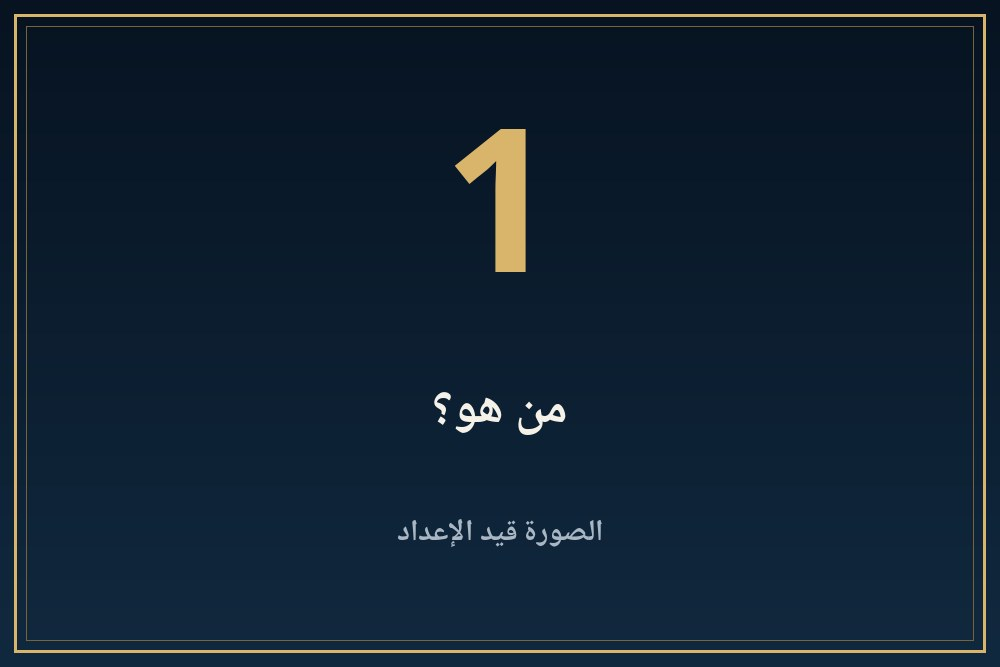
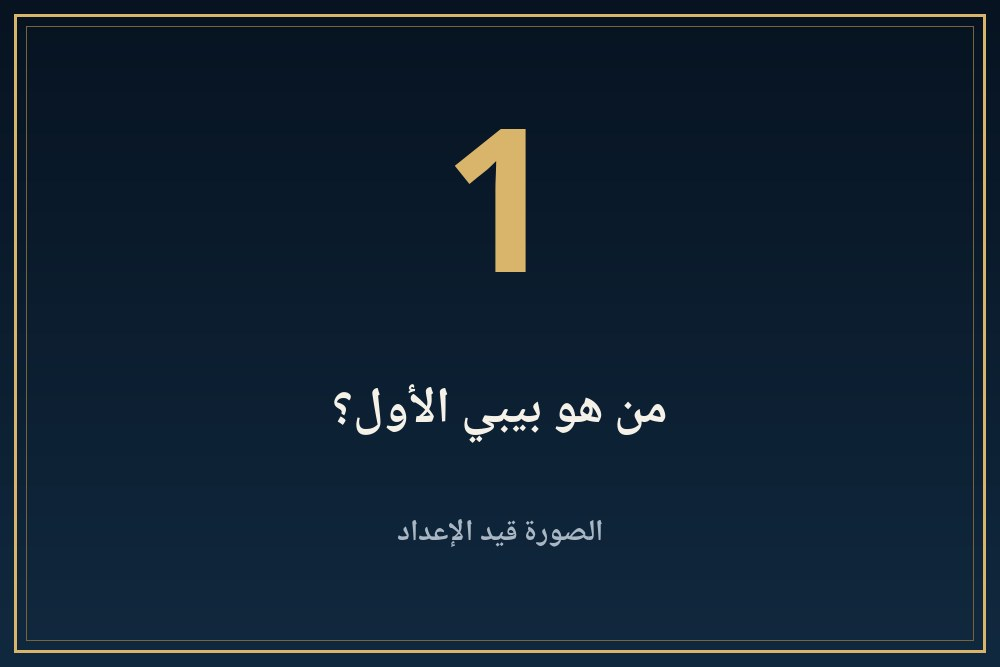
King 033: rebuilt from updated content (placeholders, audio pending)

Changed region(s): [[0.341, 0.5697, 0.682, 0.6597]]

diff --git a/kings/033-byby-alawl/index.html b/kings/033-byby-alawl/index.html
@@ -324,7 +324,7 @@ html[dir=ltr] #panav.open,#pash[dir=ltr] #panav.open{border-right:0!important;bo
 <div class="row"><span class="bdg v">موثّق</span><span>مذكور في مصدر مرقّم يمكن فتحه من قسم المراجع.</span></div>
 <div class="row"><span class="bdg d">محل خلاف</span><span>الصفحة نفسها تذكر أن الباحثين أو المصادر مختلفون فيه.</span></div>
 <div class="row"><span class="bdg u">لم يُتحقق منه</span><span>الصفحة تذكر أنه من مصدر واحد ولم يُتحقق منه في مصدر ثانٍ.</span></div></div>
-<div class="band" aria-hidden="true"></div><details class="acc k1" id="s1"><summary><img class="bnr" src="banners/b01.jpg?v=1" alt="" width="1000" height="667"><span class="n">1</span><span class="t">من هو؟</span><span class="ch"></span></summary><div class="body"><button class="lbtn" type="button" disabled aria-disabled="true" style="opacity:.55;cursor:default"><svg viewBox="0 0 24 24" fill="currentColor" aria-hidden="true"><path d="M7 4.5v15a1 1 0 001.5.86l12-7.5a1 1 0 000-1.72l-12-7.5A1 1 0 007 4.5z"/></svg><span>التعليق الصوتي قريبًا</span></button><p><span class="bdg v">موثّق</span> يقول سليم حسن (ج1 ص275-280) إن بيبي الأول حكم نحو نصف قرن، ووُجدت آثاره من طيبة وتل بسطة والعرابة ودندرة وقفط إلى النوبة السفلى.<sup><a href="#r1">[1]</a></sup></p></div></details><details class="acc k2" id="s2"><summary><img class="bnr" src="banners/b02.jpg?v=1" alt="" loading="lazy" width="1000" height="667"><span class="n">2</span><span class="t">قضية الملكة إمتس</span><span class="ch"></span></summary><div class="body"><button class="lbtn" type="button" disabled aria-disabled="true" style="opacity:.55;cursor:default"><svg viewBox="0 0 24 24" fill="currentColor" aria-hidden="true"><path d="M7 4.5v15a1 1 0 001.5.86l12-7.5a1 1 0 000-1.72l-12-7.5A1 1 0 007 4.5z"/></svg><span>التعليق الصوتي قريبًا</span></button><p><span class="bdg d">محل خلاف</span> يذكر سليم حسن (ص276) محاكمة زوجته إمتس، وقد أشار إليها وني، ويقول إن سببها مجهول.<sup><a href="#r1">[1]</a></sup></p></div></details><details class="acc k3" id="s3"><summary><img class="bnr" src="banners/b03.jpg?v=1" alt="" loading="lazy" width="1000" height="667"><span class="n">3</span><span class="t">أمه وزواجه</span><span class="ch"></span></summary><div class="body"><button class="lbtn" type="button" disabled aria-disabled="true" style="opacity:.55;cursor:default"><svg viewBox="0 0 24 24" fill="currentColor" aria-hidden="true"><path d="M7 4.5v15a1 1 0 001.5.86l12-7.5a1 1 0 000-1.72l-12-7.5A1 1 0 007 4.5z"/></svg><span>التعليق الصوتي قريبًا</span></button><p><span class="bdg d">محل خلاف</span> يقول سليم حسن إن أمه «أبوت» لم تكن زوج تيتي، وإن نسبها تخمين. وإنه تزوج الأختين «مري رع عنخس» (ص276). فهذا موضع افتراض عنده.<sup><a href="#r1">[1]</a></sup></p></div></details><details class="acc k4" id="s4"><summary><img class="bnr" src="banners/b04.jpg?v=1" alt="" loading="lazy" width="1000" height="667"><span class="n">4</span><span class="t">الهرم «الحسن التأسيس»</span><span class="ch"></span></summary><div class="body"><button class="lbtn" type="button" disabled aria-disabled="true" style="opacity:.55;cursor:default"><svg viewBox="0 0 24 24" fill="currentColor" aria-hidden="true"><path d="M7 4.5v15a1 1 0 001.5.86l12-7.5a1 1 0 000-1.72l-12-7.5A1 1 0 007 4.5z"/></svg><span>التعليق الصوتي قريبًا</span></button><p><span class="bdg v">موثّق</span> يقول سليم حسن (ص277) إن اسم هرمه بسقارة «الحسن التأسيس»، وإن اللصوص نهبوا تابوت البازلت ومحوا الخراطيش.<sup><a href="#r1">[1]</a></sup></p></div></details><details class="acc k1" id="s5"><summary><img class="bnr" src="banners/b05.jpg?v=1" alt="" loading="lazy" width="1000" height="667"><span class="n">5</span><span class="t">سيرة وني</span><span class="ch"></span></summary><div class="body"><button class="lbtn" type="button" disabled aria-disabled="true" style="opacity:.55;cursor:default"><svg viewBox="0 0 24 24" fill="currentColor" aria-hidden="true"><path d="M7 4.5v15a1 1 0 001.5.86l12-7.5a1 1 0 000-1.72l-12-7.5A1 1 0 007 4.5z"/></svg><span>التعليق الصوتي قريبًا</span></button><p><span class="bdg v">موثّق</span> يذكر سليم حسن (ص278-280) سيرة وني: قاضٍ سري للحريم، وتابوت أهداه الملك من طرة، وتجهيز جيش من المرتزقة النوبيين، وخمس حملات ضد البدو.<sup><a href="#r1">[1]</a></sup></p></div></details><details class="acc k2" id="s6"><summary><img class="bnr" src="banners/b06.jpg?v=1" alt="" loading="lazy" width="1000" height="667"><span class="n">6</span><span class="t">الحملة على فلسطين</span><span class="ch"></span></summary><div class="body"><button class="lbtn" type="button" disabled aria-disabled="true" style="opacity:.55;cursor:default"><svg viewBox="0 0 24 24" fill="currentColor" aria-hidden="true"><path d="M7 4.5v15a1 1 0 001.5.86l12-7.5a1 1 0 000-1.72l-12-7.5A1 1 0 007 4.5z"/></svg><span>التعليق الصوتي قريبًا</span></button><p><span class="bdg v">موثّق</span> يقول سليم حسن (ص278-280) إن «الحملة ضد فلسطين... تعد الأولى من نوعها في تاريخ مصر»، وإنها كانت بحرا إلى أنف الغزال أو الكرمل.<sup><a href="#r1">[1]</a></sup></p></div></details><details class="acc k3" id="s7"><summary><img class="bnr" src="banners/b07.jpg?v=1" alt="" loading="lazy" width="1000" height="667"><span class="n">7</span><span class="t">ني عنخ بيبي وتحذير سالبي القبور</span><span class="ch"></span></summary><div class="body"><button class="lbtn" type="button" disabled aria-disabled="true" style="opacity:.55;cursor:default"><svg viewBox="0 0 24 24" fill="currentColor" aria-hidden="true"><path d="M7 4.5v15a1 1 0 001.5.86l12-7.5a1 1 0 000-1.72l-12-7.5A1 1 0 007 4.5z"/></svg><span>التعليق الصوتي قريبًا</span></button><p><span class="bdg v">موثّق</span> يذكر سليم حسن (ص281-282) قبر ني عنخ بيبي في سقارة ونقوشه التحذيرية ضد سالبي القبور.<sup><a href="#r1">[1]</a></sup></p></div></details><details class="acc k4" id="s8"><summary><img class="bnr" src="banners/b08.jpg?v=1" alt="" loading="lazy" width="1000" height="667"><span class="n">8</span><span class="t">اغتصاب مصطبة</span><span class="ch"></span></summary><div class="body"><button class="lbtn" type="button" disabled aria-disabled="true" style="opacity:.55;cursor:default"><svg viewBox="0 0 24 24" fill="currentColor" aria-hidden="true"><path d="M7 4.5v15a1 1 0 001.5.86l12-7.5a1 1 0 000-1.72l-12-7.5A1 1 0 007 4.5z"/></svg><span>التعليق الصوتي قريبًا</span></button><p><span class="bdg v">موثّق</span> يذكر سليم حسن (ص281-282) أن الوزير ني كاو حور اغتصب مصطبة آخت حتب ومحا اسمه، ويقول إنه «من أفظع الأمثلة في عدم المبالاة بحقوق الأموات».<sup><a href="#r1">[1]</a></sup></p></div></details><details class="acc k1" id="s9"><summary><img class="bnr" src="banners/b09.jpg?v=1" alt="" loading="lazy" width="1000" height="667"><span class="n">9</span><span class="t">ما لا نعرفه</span><span class="ch"></span></summary><div class="body"><button class="lbtn" type="button" disabled aria-disabled="true" style="opacity:.55;cursor:default"><svg viewBox="0 0 24 24" fill="currentColor" aria-hidden="true"><path d="M7 4.5v15a1 1 0 001.5.86l12-7.5a1 1 0 000-1.72l-12-7.5A1 1 0 007 4.5z"/></svg><span>التعليق الصوتي قريبًا</span></button><p><span class="bdg u">لم يُتحقق منه</span> لم نقرأ بعد مصدرا ثانيا عن بيبي الأول. هذه الصفحة مؤقتة لحين وصول اقتباسات حواس وصالح ونور الدين وكتاب الميت.</p></div></details><details class="acc k4" id="refs"><summary><img class="bnr" src="banners/b10.jpg?v=1" alt="" loading="lazy" width="1000" height="667"><span class="n">10</span><span class="t">المراجع</span><span class="ch"></span></summary><div class="body"><button class="lbtn" type="button" disabled aria-disabled="true" style="opacity:.55;cursor:default"><svg viewBox="0 0 24 24" fill="currentColor" aria-hidden="true"><path d="M7 4.5v15a1 1 0 001.5.86l12-7.5a1 1 0 000-1.72l-12-7.5A1 1 0 007 4.5z"/></svg><span>التعليق الصوتي قريبًا</span></button><p><b>مصادر فتحتُ صفحاتها وقرأتها:</b></p><ol><li id="r1" dir="auto">سليم حسن، موسوعة مصر القديمة، ج1، الفصل 15: <a dir="ltr" style="display:inline-block;overflow-wrap:anywhere" href="https://archive.org/details/20201104_20201104_1559" rel="noopener" target="_blank">archive.org/details/20201104_20201104_1559</a></li></ol><div class="flag"><b>تنبيه:</b> عدد المصادر المصرية المفتوحة لهذه الصفحة واحد فقط. لا نضيف تفاصيل لم تثبت في مصدر فتحناه وقرأنا نصه، وحيث يختلف المصدران ننسب كل رأي لصاحبه.</div></div></details></article><aside class="abt" aria-label="عن هذه الصفحة"><h3>عن هذه الصفحة</h3><ul><li><b>المحتوى</b><span>جزء من موسوعة بر عنخ التعليمية. التواريخ والتفسيرات وفق المراجع المتاحة، وقد تختلف التفاصيل بين الدراسات.</span></li><li><b>الصور</b><span>صور هذه الصفحة أماكن حجز مؤقتة إلى أن تُضاف الصور الفنية.</span></li><li><b>الصوت</b><span>التعليق الصوتي قيد الإعداد.</span></li></ul></aside><a class="back" href="/kings/">← تصفح المزيد</a><a class="back" href="/">العودة إلى الرئيسية</a><dialog id="lb"><img alt=""><p></p><button type="button">إغلاق</button></dialog>
+<div class="band" aria-hidden="true"></div><details class="acc k1" id="s1"><summary><img class="bnr" src="banners/b01.jpg?v=1" alt="" width="1000" height="667"><span class="n">1</span><span class="t">من هو بيبي الأول؟</span><span class="ch"></span></summary><div class="body"><button class="lbtn" type="button" disabled aria-disabled="true" style="opacity:.55;cursor:default"><svg viewBox="0 0 24 24" fill="currentColor" aria-hidden="true"><path d="M7 4.5v15a1 1 0 001.5.86l12-7.5a1 1 0 000-1.72l-12-7.5A1 1 0 007 4.5z"/></svg><span>التعليق الصوتي قريبًا</span></button><p><span class="bdg v">موثّق</span> يقول كتاب الميت (ص35) إن اسمه الحوري «مري تاوي» أي «محبوب الأرضين»، واسمه «مري رع»، واسمه الأصلي «نفر سا حور»، وإن حكمه طويل: إحصاؤه الخامس والعشرون معروف، ومانيتون ينسب إليه ثلاثا وخمسين سنة. ويقول سليم حسن (ص275-280) إنه حكم نحو نصف قرن.<sup><a href="#r1">[1]</a><a href="#r3">[3]</a></sup></p></div></details><details class="acc k2" id="s2"><summary><img class="bnr" src="banners/b02.jpg?v=1" alt="" loading="lazy" width="1000" height="667"><span class="n">2</span><span class="t">قمة الدولة القديمة؟</span><span class="ch"></span></summary><div class="body"><button class="lbtn" type="button" disabled aria-disabled="true" style="opacity:.55;cursor:default"><svg viewBox="0 0 24 24" fill="currentColor" aria-hidden="true"><path d="M7 4.5v15a1 1 0 001.5.86l12-7.5a1 1 0 000-1.72l-12-7.5A1 1 0 007 4.5z"/></svg><span>التعليق الصوتي قريبًا</span></button><p><span class="bdg v">موثّق</span> يقول كتاب الميت (ص35) إن قمة الدولة القديمة ربما بلغت في عهده، بحسب عدد المعابد التي بُنيت في البلاد أثناء إعادة التنظيم الإداري، وبحسب نشاطه خارج مصر في نقش وني الكبير في أبيدوس. ويقول إن بعثاته ذهبت إلى وادي الحمامات وسيناء، وإن حضوره موثق من جبيل إلى تماس في النوبة، وإن عيد سد أُقيم في سنة 36.<sup><a href="#r3">[3]</a></sup></p></div></details><details class="acc k3" id="s3"><summary><img class="bnr" src="banners/b03.jpg?v=1" alt="" loading="lazy" width="1000" height="667"><span class="n">3</span><span class="t">قضية الملكة إمتس</span><span class="ch"></span></summary><div class="body"><button class="lbtn" type="button" disabled aria-disabled="true" style="opacity:.55;cursor:default"><svg viewBox="0 0 24 24" fill="currentColor" aria-hidden="true"><path d="M7 4.5v15a1 1 0 001.5.86l12-7.5a1 1 0 000-1.72l-12-7.5A1 1 0 007 4.5z"/></svg><span>التعليق الصوتي قريبًا</span></button><p><span class="bdg d">محل خلاف</span> يقول صالح (ص217) إن الملك اتهم زوجته إمتس في أمر ربما شاركت فيه مع وزير عهدها، وإن حقيقته غير مؤكدة: قد يكون خيانة زوجية أو مؤامرة على إحدى الضرائر أو على ابن لها أو على الملك نفسه، وإنه عهد إلى وني بالتحقيق منفردا، ولم يسجل التاريخ نتيجته. ويقول كتاب الميت (ص35) إن نقش وني يذكر بتكتم مؤامرة دبرت في حريم الملك. فالسبب مجهول.<sup><a href="#r2">[2]</a><a href="#r3">[3]</a></sup></p></div></details><details class="acc k4" id="s4"><summary><img class="bnr" src="banners/b04.jpg?v=1" alt="" loading="lazy" width="1000" height="667"><span class="n">4</span><span class="t">زواجه</span><span class="ch"></span></summary><div class="body"><button class="lbtn" type="button" disabled aria-disabled="true" style="opacity:.55;cursor:default"><svg viewBox="0 0 24 24" fill="currentColor" aria-hidden="true"><path d="M7 4.5v15a1 1 0 001.5.86l12-7.5a1 1 0 000-1.72l-12-7.5A1 1 0 007 4.5z"/></svg><span>التعليق الصوتي قريبًا</span></button><p><span class="bdg v">موثّق</span> يقول صالح (ص217) إنه تزوج ابنة عظيم من أعيان جرجا اسمه «خوي»، وأنجب منها ولي عهده مرن رع، وربما تزوج أختها. ويقول كتاب الميت (ص35) إن الأختين اسمهما «عنخ نس بيبي»، وإن المؤرخين المحدثين يرونهما أمّي مرن رع الأول وبيبي الثاني.<sup><a href="#r2">[2]</a><a href="#r3">[3]</a></sup></p></div></details><details class="acc k1" id="s5"><summary><img class="bnr" src="banners/b05.jpg?v=1" alt="" loading="lazy" width="1000" height="667"><span class="n">5</span><span class="t">جيش وني</span><span class="ch"></span></summary><div class="body"><button class="lbtn" type="button" disabled aria-disabled="true" style="opacity:.55;cursor:default"><svg viewBox="0 0 24 24" fill="currentColor" aria-hidden="true"><path d="M7 4.5v15a1 1 0 001.5.86l12-7.5a1 1 0 000-1.72l-12-7.5A1 1 0 007 4.5z"/></svg><span>التعليق الصوتي قريبًا</span></button><p><span class="bdg v">موثّق</span> يقول صالح (ص218) إن وني روى أن الملك جنّد تحت إمرته عشرات الآلاف من حاميات المدن وأهل الأقاليم ومن النوبة (إرثت ومجا وإيام وواوات وكاو) ومن قبائل التمحو، ومعهم مترجمون وموظفون وكهنة، وإن وني نظّم المسيرة فلم يخطف جندي نعلا ولا كسرة خبز.<sup><a href="#r2">[2]</a></sup></p></div></details><details class="acc k2" id="s6"><summary><img class="bnr" src="banners/b06.jpg?v=1" alt="" loading="lazy" width="1000" height="667"><span class="n">6</span><span class="t">أبيات النصر</span><span class="ch"></span></summary><div class="body"><button class="lbtn" type="button" disabled aria-disabled="true" style="opacity:.55;cursor:default"><svg viewBox="0 0 24 24" fill="currentColor" aria-hidden="true"><path d="M7 4.5v15a1 1 0 001.5.86l12-7.5a1 1 0 000-1.72l-12-7.5A1 1 0 007 4.5z"/></svg><span>التعليق الصوتي قريبًا</span></button><p><span class="bdg v">موثّق</span> يقول صالح (ص218) إن وني رفع تقرير الحرب وعقّب عليه بسبعة أبيات يؤكد فيها سلامة الجيش سبع مرات، مثل «عاد الجيش سالما بعد أن دمر أرض أهل الرمال»، «بعد أن أسقط حصونهم»، «بعد أن خرب مزارع التين واقتلع الكروم».<sup><a href="#r2">[2]</a></sup></p></div></details><details class="acc k3" id="s7"><summary><img class="bnr" src="banners/b07.jpg?v=1" alt="" loading="lazy" width="1000" height="667"><span class="n">7</span><span class="t">أين كانت الحملة؟</span><span class="ch"></span></summary><div class="body"><button class="lbtn" type="button" disabled aria-disabled="true" style="opacity:.55;cursor:default"><svg viewBox="0 0 24 24" fill="currentColor" aria-hidden="true"><path d="M7 4.5v15a1 1 0 001.5.86l12-7.5a1 1 0 000-1.72l-12-7.5A1 1 0 007 4.5z"/></svg><span>التعليق الصوتي قريبًا</span></button><p><span class="bdg d">محل خلاف</span> يقول صالح (ص219) إن وصف المنطقة ومزارع التين والكروم يدل على أنه توغل بجيشه في فلسطين، وإن وني ذكر منطقة باسم «أنف الغزال» يراها جاردنر قريبة من جبل الكرمل، وإن تكرار سلامة الجيش ربما عبّر عن أمل لا عن خبر. ويقول سليم حسن (ص278-280) إنها «الأولى من نوعها في تاريخ مصر» وإنها كانت بحرا. ولا نحسم الموضع.<sup><a href="#r1">[1]</a><a href="#r2">[2]</a></sup></p></div></details><details class="acc k4" id="s8"><summary><img class="bnr" src="banners/b08.jpg?v=1" alt="" loading="lazy" width="1000" height="667"><span class="n">8</span><span class="t">مقبرة وني</span><span class="ch"></span></summary><div class="body"><button class="lbtn" type="button" disabled aria-disabled="true" style="opacity:.55;cursor:default"><svg viewBox="0 0 24 24" fill="currentColor" aria-hidden="true"><path d="M7 4.5v15a1 1 0 001.5.86l12-7.5a1 1 0 000-1.72l-12-7.5A1 1 0 007 4.5z"/></svg><span>التعليق الصوتي قريبًا</span></button><p><span class="bdg v">موثّق</span> يقول كتاب الميت (ص160) إن ماريت اكتشف مقبرة وني من الأسرة السادسة بنقشها السيري الهام.<sup><a href="#r3">[3]</a></sup></p></div></details><details class="acc k1" id="s9"><summary><img class="bnr" src="banners/b09.jpg?v=1" alt="" loading="lazy" width="1000" height="667"><span class="n">9</span><span class="t">هرمه ومنف</span><span class="ch"></span></summary><div class="body"><button class="lbtn" type="button" disabled aria-disabled="true" style="opacity:.55;cursor:default"><svg viewBox="0 0 24 24" fill="currentColor" aria-hidden="true"><path d="M7 4.5v15a1 1 0 001.5.86l12-7.5a1 1 0 000-1.72l-12-7.5A1 1 0 007 4.5z"/></svg><span>التعليق الصوتي قريبًا</span></button><p><span class="bdg v">موثّق</span> يقول كتاب الميت (ص35) إن هرمه ارتفاعه خمسون مترا وسُمي «من نفر بيبي»، أي «بيبي ثابت وجميل»، وإن الجزء الأول من الاسم أُطلق على العاصمة القريبة فنقله اليونان «ممفيس». ويقول إن أكثر من ثلاثة آلاف قطعة نقوش جُمعت وأُعيد بها بناء الجدران، وإن العلامات المنحوتة تحتفظ بلونها الأخضر الأصلي. ويقول سليم حسن (ص277) إن اسمه «الحسن التأسيس» وإن اللصوص نهبوا تابوت البازلت.<sup><a href="#r1">[1]</a><a href="#r3">[3]</a></sup></p></div></details><details class="acc k2" id="s10"><summary><img class="bnr" src="banners/b10.jpg?v=1" alt="" loading="lazy" width="1000" height="667"><span class="n">10</span><span class="t">ني عنخ بيبي والتحذير من النهب</span><span class="ch"></span></summary><div class="body"><button class="lbtn" type="button" disabled aria-disabled="true" style="opacity:.55;cursor:default"><svg viewBox="0 0 24 24" fill="currentColor" aria-hidden="true"><path d="M7 4.5v15a1 1 0 001.5.86l12-7.5a1 1 0 000-1.72l-12-7.5A1 1 0 007 4.5z"/></svg><span>التعليق الصوتي قريبًا</span></button><p><span class="bdg v">موثّق</span> يذكر سليم حسن (ص281-282) قبر ني عنخ بيبي ونقوشه التحذيرية الفريدة ضد سالبي القبور، وأن الوزير ني كاو حور اغتصب مصطبة آخت حتب ومحا اسمه، وهو «من أفظع الأمثلة في عدم المبالاة بحقوق الأموات».<sup><a href="#r1">[1]</a></sup></p></div></details><details class="acc k3" id="s11"><summary><img class="bnr" src="banners/b11.jpg?v=1" alt="" loading="lazy" width="1000" height="667"><span class="n">11</span><span class="t">ما لا نعرفه</span><span class="ch"></span></summary><div class="body"><button class="lbtn" type="button" disabled aria-disabled="true" style="opacity:.55;cursor:default"><svg viewBox="0 0 24 24" fill="currentColor" aria-hidden="true"><path d="M7 4.5v15a1 1 0 001.5.86l12-7.5a1 1 0 000-1.72l-12-7.5A1 1 0 007 4.5z"/></svg><span>التعليق الصوتي قريبًا</span></button><p><span class="bdg u">لم يُتحقق منه</span> لا نعرف سبب مؤامرة الحريم ولا نتيجتها، ولا موضع الحملة بيقين، ولا مدة حكمه بيقين (53 سنة عند مانيتون، ونحو نصف قرن عند سليم حسن).</p></div></details><details class="acc k4" id="refs"><summary><img class="bnr" src="banners/b12.jpg?v=1" alt="" loading="lazy" width="1000" height="667"><span class="n">12</span><span class="t">المراجع</span><span class="ch"></span></summary><div class="body"><button class="lbtn" type="button" disabled aria-disabled="true" style="opacity:.55;cursor:default"><svg viewBox="0 0 24 24" fill="currentColor" aria-hidden="true"><path d="M7 4.5v15a1 1 0 001.5.86l12-7.5a1 1 0 000-1.72l-12-7.5A1 1 0 007 4.5z"/></svg><span>التعليق الصوتي قريبًا</span></button><p><b>مصادر فتحتُ صفحاتها وقرأتها:</b></p><ol><li id="r1" dir="auto">سليم حسن، موسوعة مصر القديمة، ج1، الفصل 15: <a dir="ltr" style="display:inline-block;overflow-wrap:anywhere" href="https://archive.org/details/20201104_20201104_1559" rel="noopener" target="_blank">archive.org/details/20201104_20201104_1559</a></li><li id="r2" dir="auto">عبد العزيز صالح، الشرق الأدنى القديم ج1 (مصر والعراق)، أرقام صفحات PDF: <a dir="ltr" style="display:inline-block;overflow-wrap:anywhere" href="https://archive.org/details/20210510_20210510_0037" rel="noopener" target="_blank">archive.org/details/20210510_20210510_0037</a></li><li id="r3" dir="auto">The Metropolitan Museum of Art, Egyptian Art in the Age of the Pyramids, 1999 (فصول كوزلوف وأرنولد وزيجلر وجريمال): <a dir="ltr" style="display:inline-block;overflow-wrap:anywhere" href="https://www.metmuseum.org/met-publications/egyptian-art-in-the-age-of-the-pyramids" rel="noopener" target="_blank">www.metmuseum.org/met-publications/egyptian-art-in-the-age-of-the-pyramids</a></li></ol></div></details></article><aside class="abt" aria-label="عن هذه الصفحة"><h3>عن هذه الصفحة</h3><ul><li><b>المحتوى</b><span>جزء من موسوعة بر عنخ التعليمية. التواريخ والتفسيرات وفق المراجع المتاحة، وقد تختلف التفاصيل بين الدراسات.</span></li><li><b>الصور</b><span>صور هذه الصفحة أماكن حجز مؤقتة إلى أن تُضاف الصور الفنية.</span></li><li><b>الصوت</b><span>التعليق الصوتي قيد الإعداد.</span></li></ul></aside><a class="back" href="/kings/">← تصفح المزيد</a><a class="back" href="/">العودة إلى الرئيسية</a><dialog id="lb"><img alt=""><p></p><button type="button">إغلاق</button></dialog>
 <script>(function(){var A=function(){return document.querySelectorAll("details.acc")};
 document.getElementById("all").onclick=function(){A().forEach(function(d){d.open=true})};
 document.getElementById("none").onclick=function(){A().forEach(function(d){d.open=false})};
@@ -332,7 +332,7 @@ function go(h){var e=h&&document.getElementById(h.slice(1));if(!e)return;var d=e
 document.addEventListener("click",function(e){var a=e.target.closest&&e.target.closest('a[href^="#"]');if(a){go(a.getAttribute("href"))}});
 if(location.hash)go(location.hash);
 var d=document.getElementById("lb");if(!d||!d.showModal)return;var im=d.querySelector("img"),p=d.querySelector("p");document.addEventListener("click",function(e){var t=e.target;if(t.tagName=="IMG"&&t.closest(".fig")){im.src=t.src;im.alt=t.alt;p.textContent=t.closest("figure").querySelector("figcaption").innerText;d.showModal()}else if(t==d||t.tagName=="BUTTON"&&d.contains(t)){d.close()}})})();</script><div class="pbar" id="pbar"></div><div class="pl" id="pl" role="region" aria-label="مشغّل الاستماع"><div class="in"><button class="pp" id="pp" type="button" aria-label="تشغيل"><svg viewBox="0 0 24 24" fill="currentColor" aria-hidden="true"><path d="M7 4.5v15a1 1 0 001.5.86l12-7.5a1 1 0 000-1.72l-12-7.5A1 1 0 007 4.5z"/></svg></button><div class="mid"><div class="ttl"><span id="tt">استماع</span> <i>صوت اصطناعي</i></div><input id="sk" type="range" min="0" max="1000" value="0" aria-label="موضع التشغيل"><div class="tm"><span id="cur">0:00</span><span id="dur">0:00</span></div></div><div class="ex"><button id="bk" type="button" aria-label="رجوع 10 ثوانٍ">−10</button><button id="fw" type="button" aria-label="تقدم 10 ثوانٍ">+10</button><button id="sp" class="sp" type="button" aria-label="سرعة التشغيل">1×</button><button id="cl" type="button" aria-label="إغلاق المشغّل">✕</button></div><p class="err" id="er" role="alert" hidden>تعذر تحميل الملف الصوتي. حاول لاحقًا.</p></div><div aria-live="polite" id="st" style="position:absolute;left:-9999px"></div><audio id="au" preload="none"></audio></div></main><script>(function(){
-var S={"s1": ["من هو؟", 1], "s2": ["قضية الملكة إمتس", 1], "s3": ["أمه وزواجه", 1], "s4": ["الهرم «الحسن التأسيس»", 1], "s5": ["سيرة وني", 1], "s6": ["الحملة على فلسطين", 1], "s7": ["ني عنخ بيبي وتحذير سالبي القبور", 1], "s8": ["اغتصاب مصطبة", 1], "s9": ["ما لا نعرفه", 1], "refs": ["المراجع", 1]},$=function(i){return document.getElementById(i)},au=$("au"),pl=$("pl"),pp=$("pp"),sk=$("sk"),P="<svg viewBox=\"0 0 24 24\" fill=\"currentColor\" aria-hidden=\"true\"><path d=\"M7 4.5v15a1 1 0 001.5.86l12-7.5a1 1 0 000-1.72l-12-7.5A1 1 0 007 4.5z\"/></svg>",Q="<svg viewBox=\"0 0 24 24\" fill=\"currentColor\" aria-hidden=\"true\"><rect x=\"5.5\" y=\"4\" width=\"4.5\" height=\"16\" rx=\"1.2\"/><rect x=\"14\" y=\"4\" width=\"4.5\" height=\"16\" rx=\"1.2\"/></svg>",cur=null,part=1,seeking=false;
+var S={"s1": ["من هو بيبي الأول؟", 1], "s2": ["قمة الدولة القديمة؟", 1], "s3": ["قضية الملكة إمتس", 1], "s4": ["زواجه", 1], "s5": ["جيش وني", 1], "s6": ["أبيات النصر", 1], "s7": ["أين كانت الحملة؟", 1], "s8": ["مقبرة وني", 1], "s9": ["هرمه ومنف", 1], "s10": ["ني عنخ بيبي والتحذير من النهب", 1], "s11": ["ما لا نعرفه", 1], "refs": ["المراجع", 1]},$=function(i){return document.getElementById(i)},au=$("au"),pl=$("pl"),pp=$("pp"),sk=$("sk"),P="<svg viewBox=\"0 0 24 24\" fill=\"currentColor\" aria-hidden=\"true\"><path d=\"M7 4.5v15a1 1 0 001.5.86l12-7.5a1 1 0 000-1.72l-12-7.5A1 1 0 007 4.5z\"/></svg>",Q="<svg viewBox=\"0 0 24 24\" fill=\"currentColor\" aria-hidden=\"true\"><rect x=\"5.5\" y=\"4\" width=\"4.5\" height=\"16\" rx=\"1.2\"/><rect x=\"14\" y=\"4\" width=\"4.5\" height=\"16\" rx=\"1.2\"/></svg>",cur=null,part=1,seeking=false;
 function fmt(t){if(!isFinite(t))return"0:00";var m=Math.floor(t/60),s=Math.floor(t%60);return m+":"+(s<10?"0":"")+s}
 function btns(){document.querySelectorAll(".lbtn").forEach(function(b){var on=b.dataset.s===cur&&!au.paused;b.classList.toggle("on",on);b.querySelector("span").textContent=on?"إيقاف مؤقت":(b.dataset.s===cur&&au.currentTime>1?"أكمل الاستماع":"استمع لهذا القسم");b.querySelector("svg").outerHTML=on?Q:P})}
 function ui(){var pa=au.paused;pp.innerHTML=pa?P:Q;pp.setAttribute("aria-label",pa?"تشغيل":"إيقاف مؤقت");btns()}
